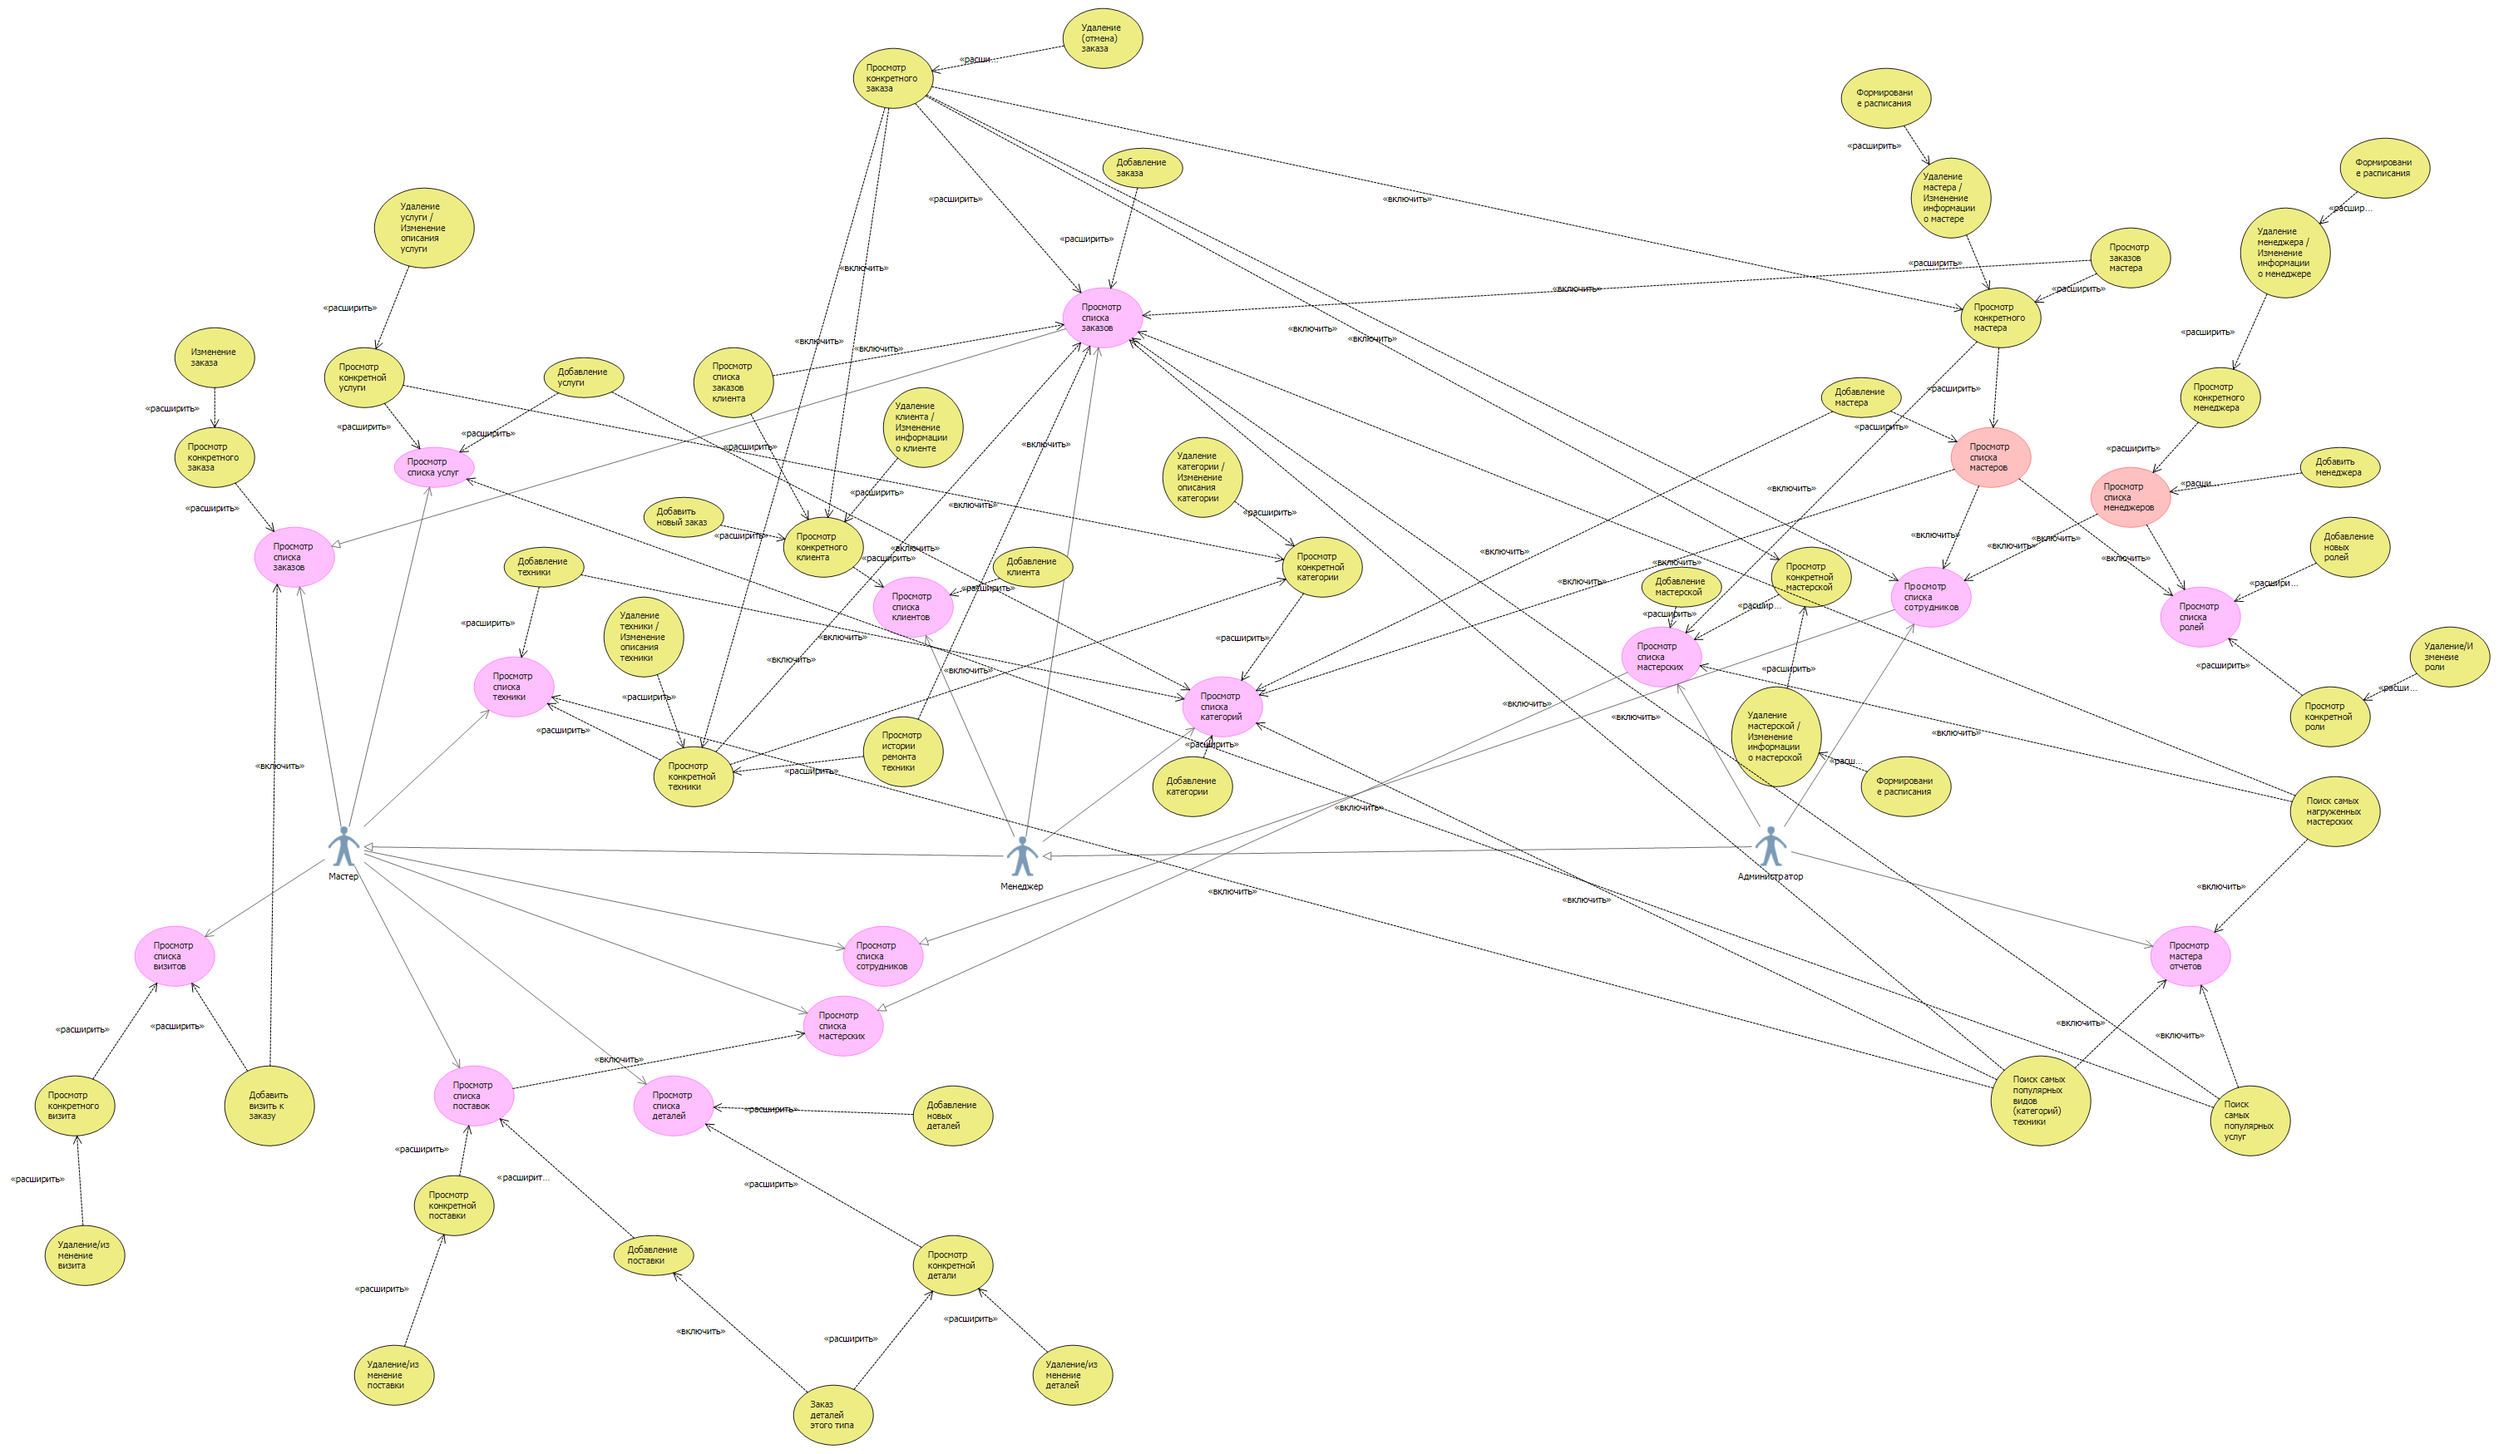
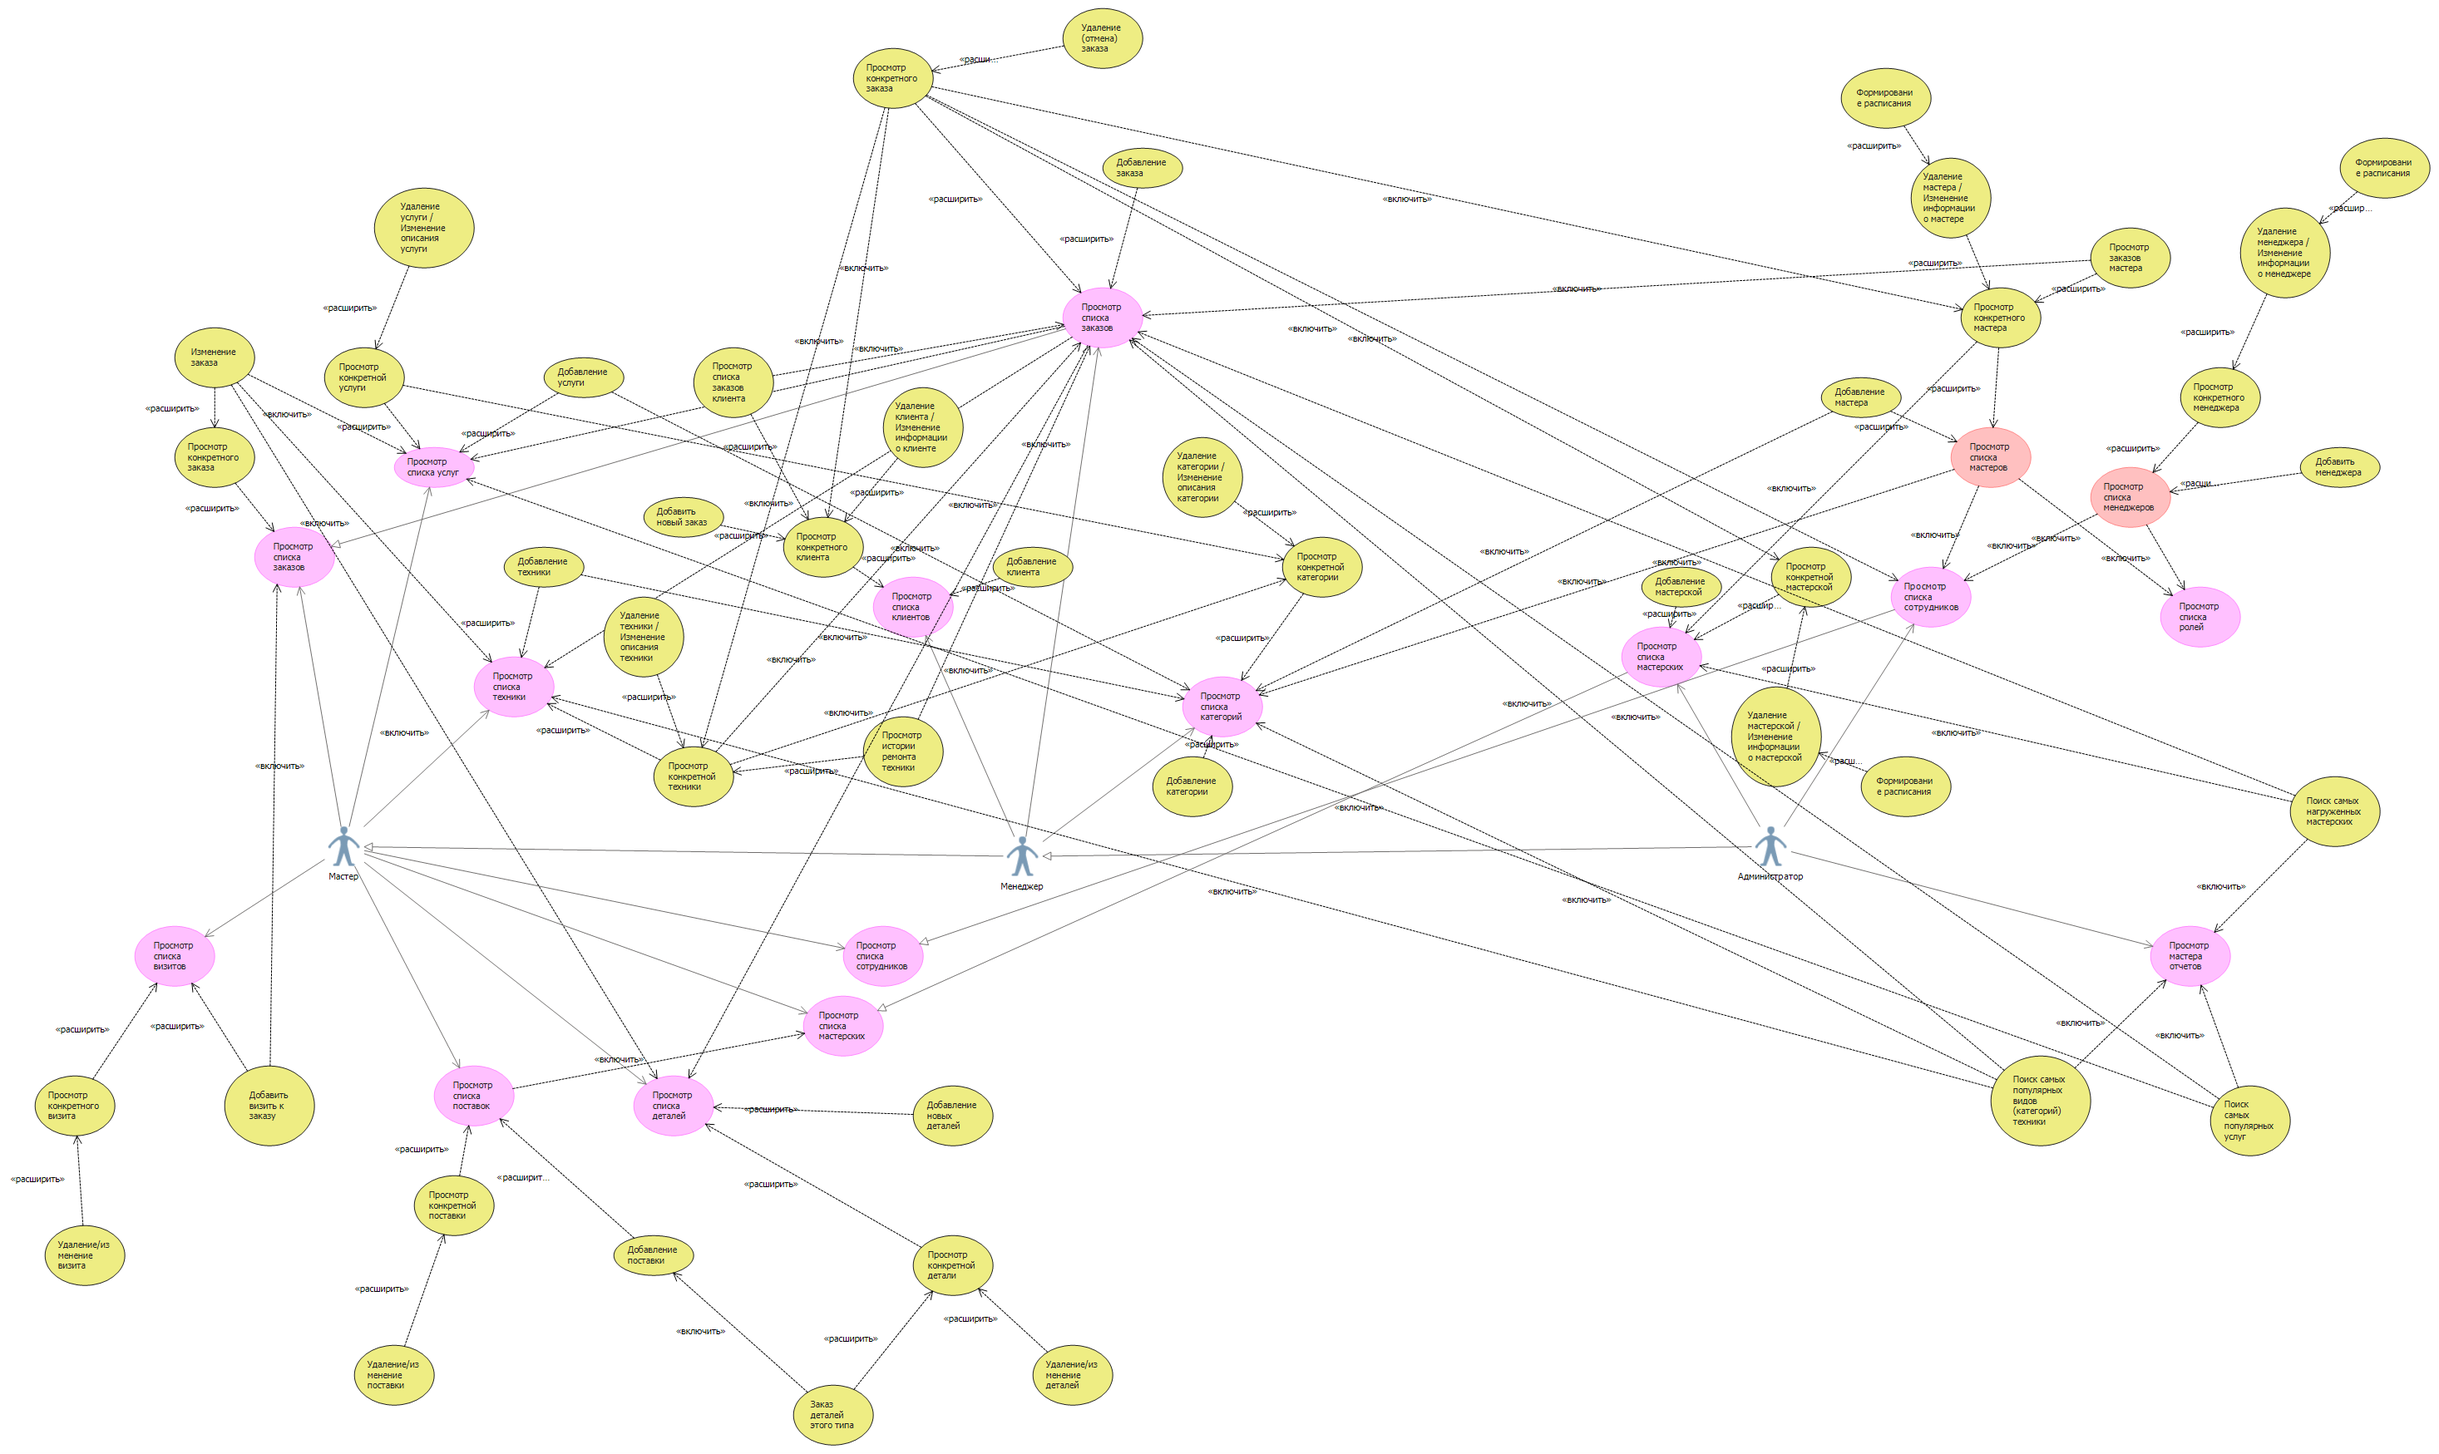
Use cases added

diff --git a/README.md b/README.md
@@ -41,3 +41,10 @@
  - [Workshop](./descriptions/workshop.md "Класс Workshop")
  - [WorkshopTimetable](./descriptions/workshopTimetable.md "Класс WorkshopTimetalbe")
  - [SortingClasses (static)](./descriptions/staticLists.md "Статические классы сортировки")
+
+<hr>
+
+## Диаграмма прецедентов
+![](./images/UseCases_TechServ_Sergei.png "Диаграмма прецедентов")
+
+<hr>
